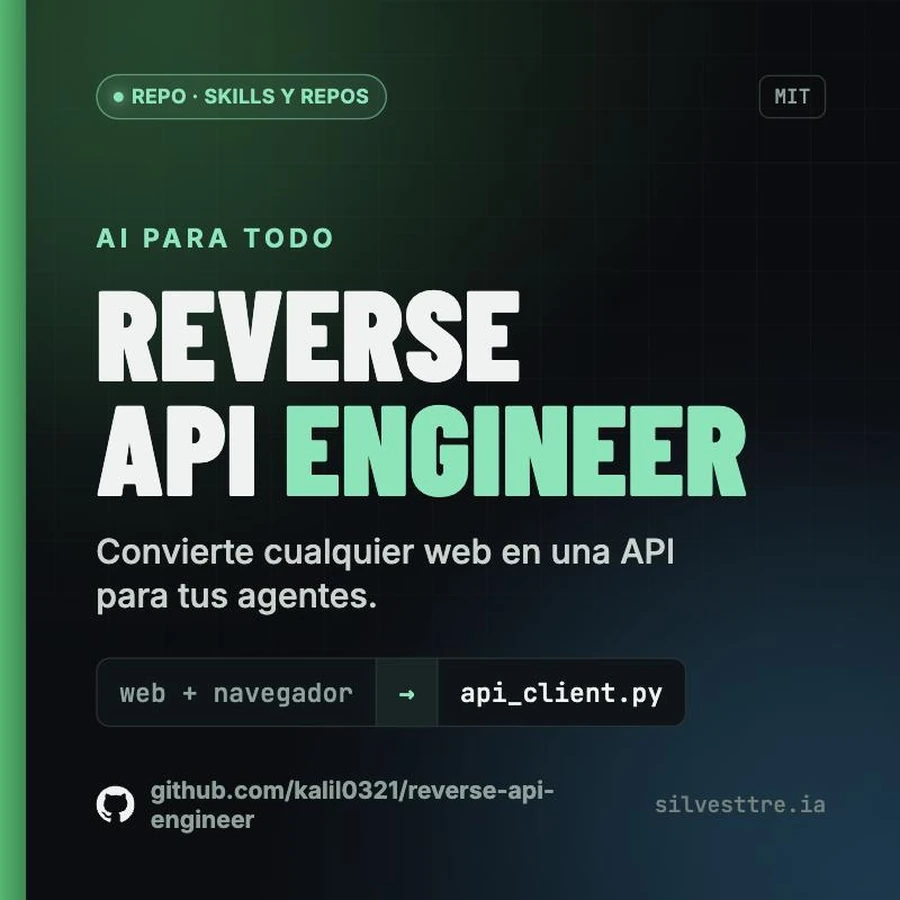
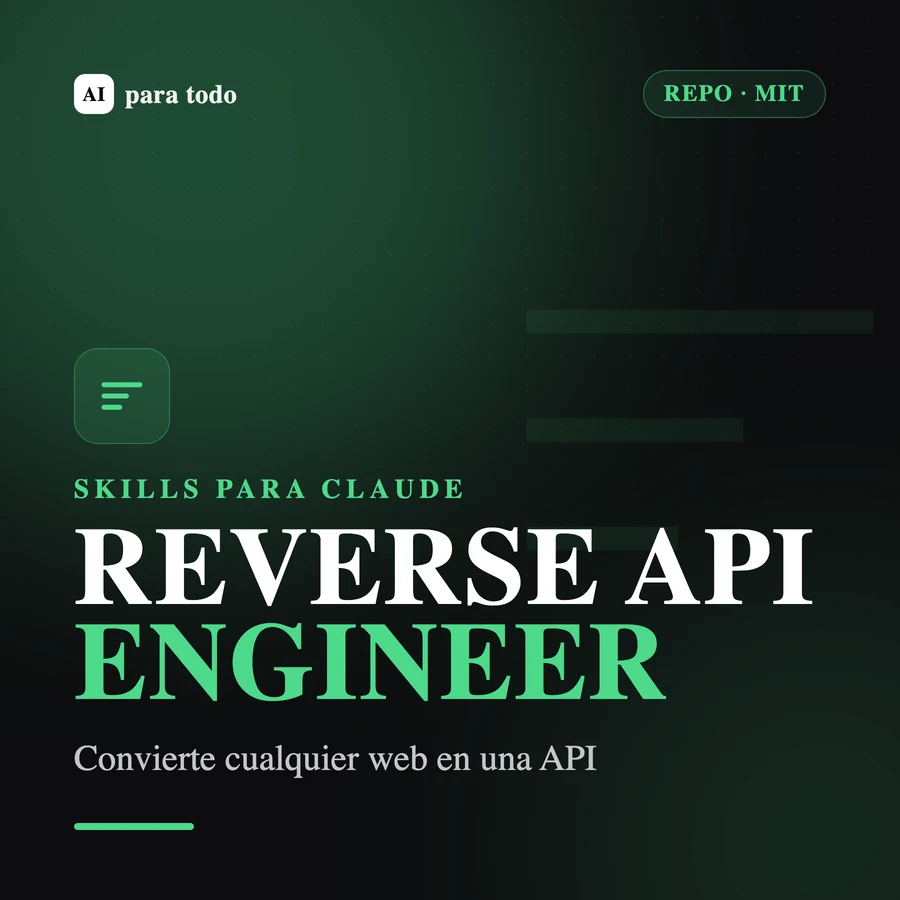
feat(aiparatodo): portadas premium para todas las skills y el repo
Portada cohesionada (fondo oscuro, acento por colección, título a medida)
para las 7 colecciones de skills y el repo reverse-api-engineer, cableada
por 'portada' en cada hilo. Reemplaza la portada floja del repo.

diff --git a/src/pages/aiparatodo/contenido.js b/src/pages/aiparatodo/contenido.js
@@ -106,6 +106,7 @@ export const POSTS = [
     slug: '5-skills-diseno-claude',
     seccion: 'skills',
     tema: 'diseno',
+    portada: '/aiparatodo/5-skills-diseno-claude.webp',
     titulo: '5 skills de diseño para Claude',
     gancho: 'Diseña sin saber diseñar',
     resumen: 'Cinco skills gratis y oficiales de Anthropic que convierten a Claude en tu diseñador: webs completas, pósters, apps, paletas y arte generativo.',

diff --git a/src/pages/aiparatodo/skills/skills-automatizacion.js b/src/pages/aiparatodo/skills/skills-automatizacion.js
@@ -15,6 +15,7 @@ const LIC_ANTHROPIC = 'Apache 2.0 (código abierto de verdad: puedes usarla, mod
 
 export default {
   slug: 'skills-automatizacion',
+  portada: '/aiparatodo/skills-automatizacion.webp',
   seccion: 'skills',
   tema: 'automatizacion',
   titulo: '7 skills para automatizar y construir con Claude',

diff --git a/src/pages/aiparatodo/skills/skills-documentos-oficina.js b/src/pages/aiparatodo/skills/skills-documentos-oficina.js
@@ -18,6 +18,7 @@ const LICENCIA_DOCS = 'Propietaria de Anthropic, source-available (no es código
 
 export default {
   slug: 'skills-documentos-oficina',
+  portada: '/aiparatodo/skills-documentos-oficina.webp',
   seccion: 'skills',
   tema: 'documentos',
   titulo: '5 skills de documentos para Claude',

diff --git a/src/pages/aiparatodo/skills/skills-marketing-estrategia.js b/src/pages/aiparatodo/skills/skills-marketing-estrategia.js
@@ -16,6 +16,7 @@ const RUTA = 'coreyhaines31/marketingskills'
 
 export default {
   slug: 'skills-marketing-estrategia',
+  portada: '/aiparatodo/skills-marketing-estrategia.webp',
   seccion: 'skills',
   tema: 'estrategia',
   titulo: '8 skills de marketing y ventas para Claude',

diff --git a/src/pages/aiparatodo/skills/skills-claude-code-pro.js b/src/pages/aiparatodo/skills/skills-claude-code-pro.js
@@ -27,6 +27,7 @@ const sueltaMP = (ruta) =>
 
 export default {
   slug: 'skills-claude-code-pro',
+  portada: '/aiparatodo/skills-claude-code-pro.webp',
   seccion: 'skills',
   tema: 'desarrollo',
   titulo: '8 skills para que Claude Code trabaje con método',

diff --git a/src/pages/aiparatodo/skills/mcp-helm.js b/src/pages/aiparatodo/skills/mcp-helm.js
@@ -6,6 +6,7 @@
 // HELM a cada cuenta. Aquí se cuenta qué hace, no se reparte ningún token.
 export default {
   slug: 'mcp-helm',
+  portada: '/aiparatodo/mcp-helm.webp',
   seccion: 'skills',
   tema: 'mcp',
   tipo: 'mcp',

diff --git a/src/pages/aiparatodo/skills/skills-contenido-marca.js b/src/pages/aiparatodo/skills/skills-contenido-marca.js
@@ -14,6 +14,7 @@
 
 export default {
   slug: 'skills-contenido-marca',
+  portada: '/aiparatodo/skills-contenido-marca.webp',
   seccion: 'skills',
   tema: 'contenido',
   titulo: '8 skills de contenido y marca para Claude',
